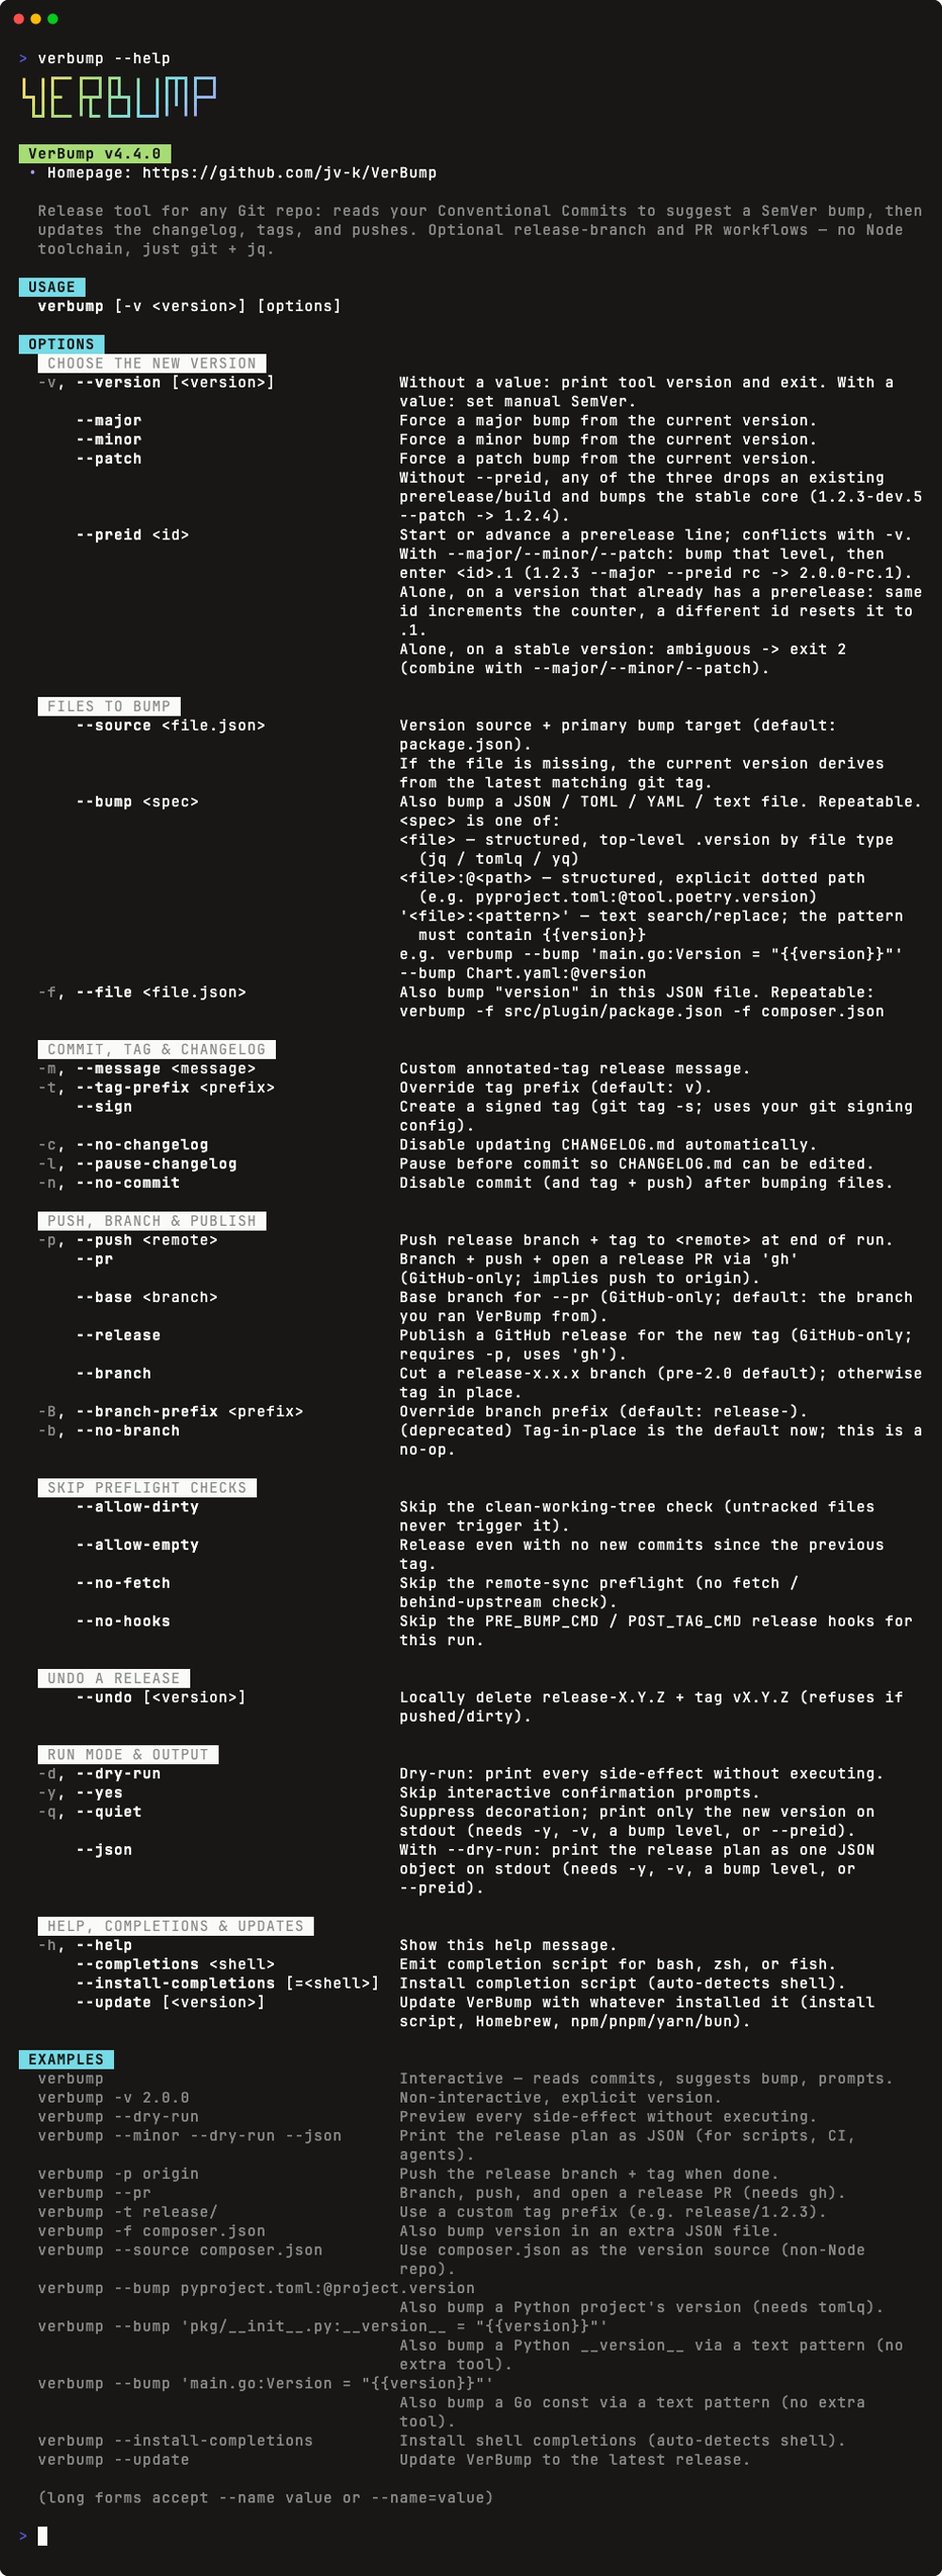
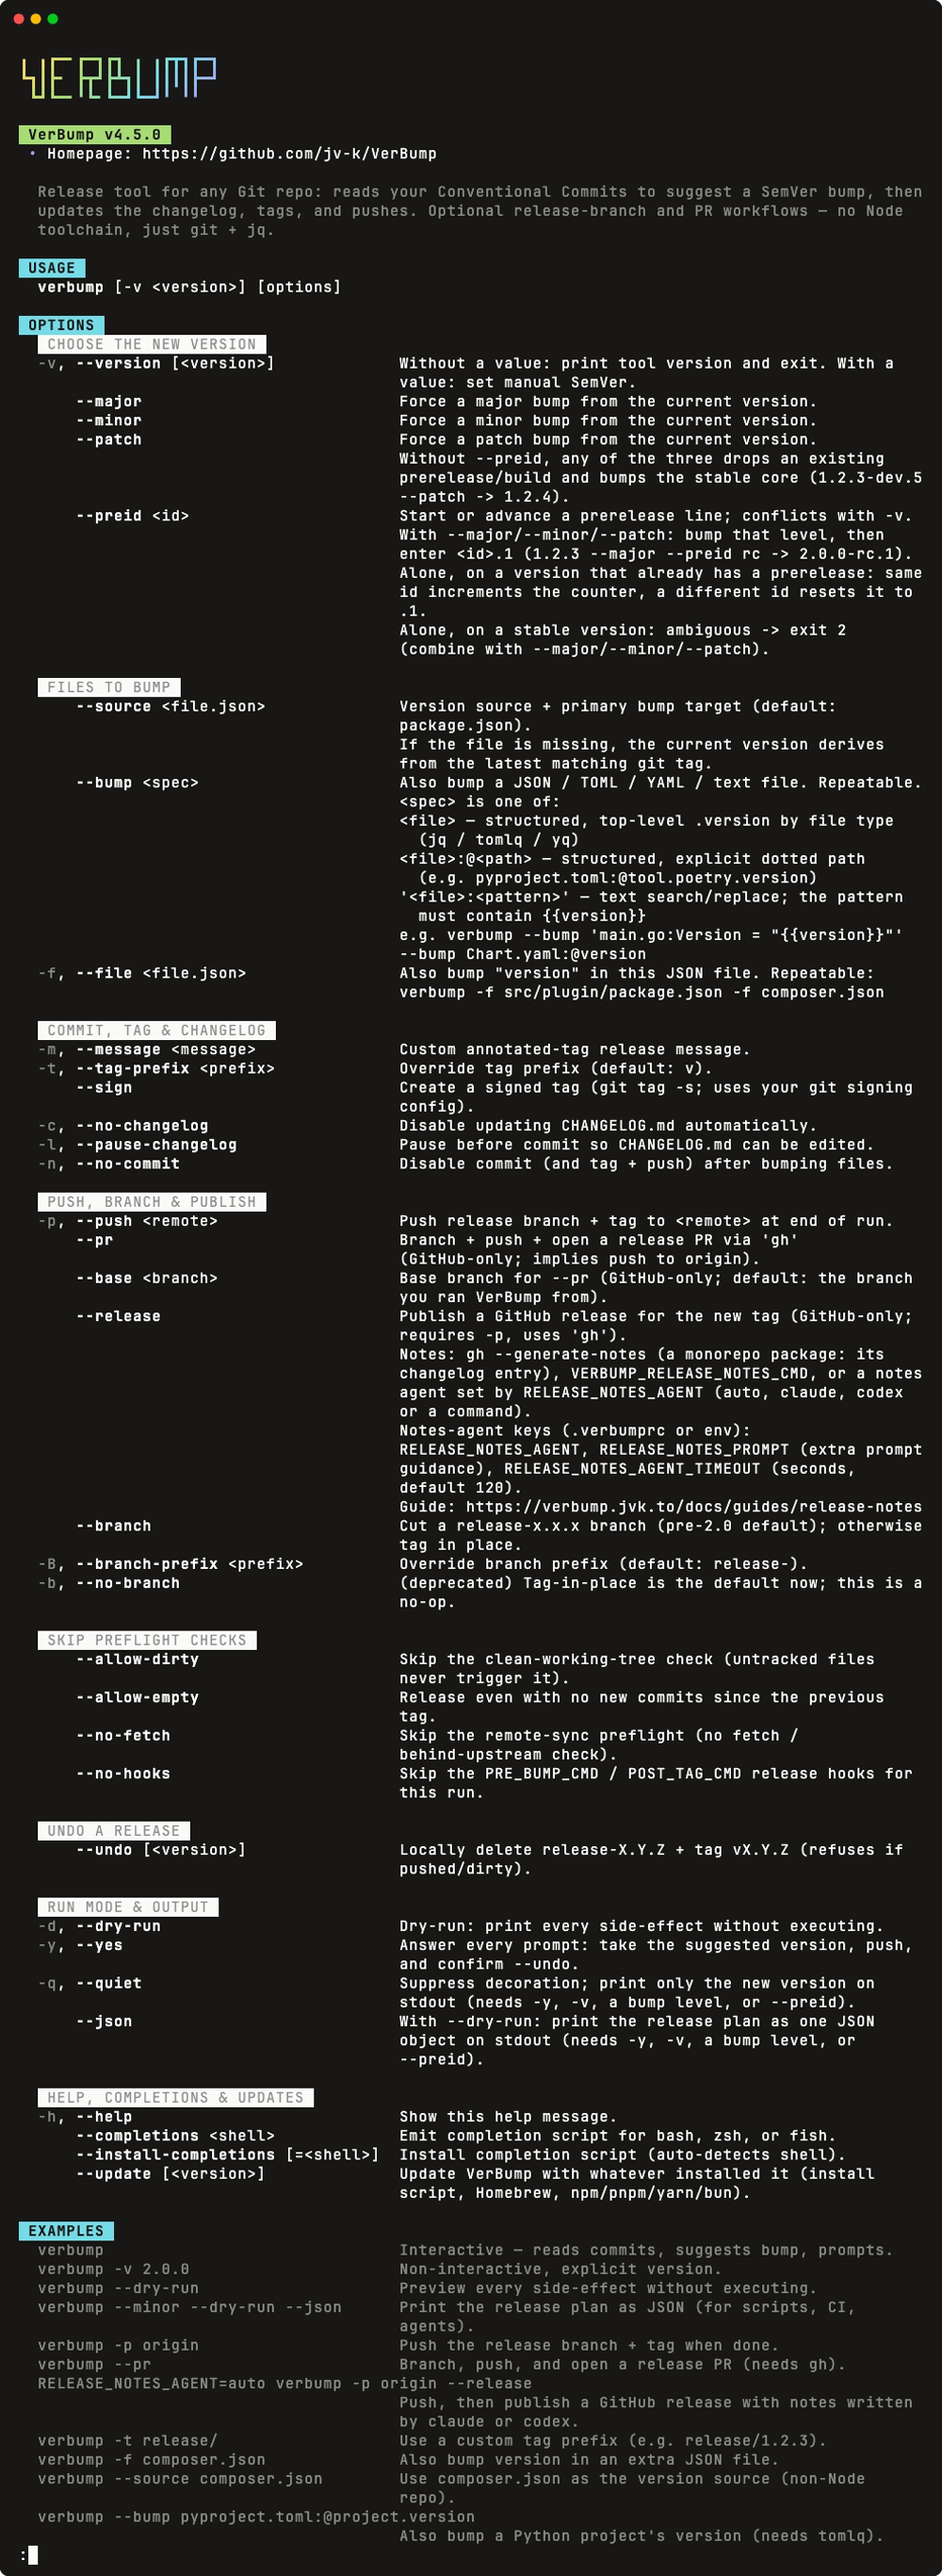
chore: updated package.json, updated CHANGELOG.md, bumped 4.4.0 -> 4.5.0

diff --git a/CHANGELOG.md b/CHANGELOG.md
@@ -1,3 +1,39 @@
+## 4.5.0 (2026-11-22)
+- chore: updated package.json, updated CHANGELOG.md, bumped 4.4.0 -> 4.5.0
+- docs(docs): name every notes-agent key and the guide in --help
+- test(tests): check auto with no agent ignores a bad notes timeout (#182)
+- test(tests): share the no-agent auto checks between two tests
+- test(tests): check auto with no agent ignores a bad notes timeout
+- feat(git-actions): preview the notes agent in --dry-run and --json (#179)
+- docs(docs): document the notes agent for --release notes (#181)
+- docs(docs): name the package notes and fix notes-agent wording
+- docs(docs): document the notes agent for --release notes
+- refactor(git-actions): tidy the notes-agent dry-run preview after review
+- feat(git-actions): preview the notes agent in --dry-run and --json
+- fix(git-actions): kill TERM-proof agent children and run caller traps (#178)
+- refactor(git-actions): tidy the notes-agent watchdog after review
+- fix(git-actions): kill TERM-proof agent children and run caller traps
+- feat(git-actions): let RELEASE_NOTES_AGENT=auto pick the notes agent (#176)
+- test(tests): check the auto no-warning case against the release output
+- refactor(git-actions): resolve the notes agent in one switch
+- feat(git-actions): let RELEASE_NOTES_AGENT=auto pick the notes agent
+- feat(git-actions): stop a hung notes agent after a timeout (#171)
+- fix(git-actions): make non-interactive runs safe for CI (#175)
+- docs(docs): add a guide for release jobs in CI
+- fix(git-actions): honour --yes at both prompts and fail on a bad push
+- feat(git-actions): add built-in claude and codex notes agents (#174)
+- fix(git-actions): keep MCP servers off for built-in notes agents
+- feat(git-actions): add built-in claude and codex notes agents
+- test(tests): cover Ctrl-C during a hung notes agent
+- feat(git-actions): stop a hung notes agent after a timeout
+- refactor(git-actions): pick --release notes through one resolver (#169)
+- feat(git-actions): let a custom notes agent write --release notes (#170)
+- refactor(git-actions): share the notes range and keep diffstat totals
+- feat(git-actions): let a custom notes agent write --release notes
+- test(tests): register the release-notes gh shim cleanup at each call site
+- refactor(git-actions): print the generated-notes preview from its flags
+- refactor(git-actions): pick --release notes through one resolver
+
 ## 4.4.0 (2026-11-04)
 - chore: updated package.json, updated CHANGELOG.md, bumped 4.3.0 -> 4.4.0
 - feat(publish): make --update drive brew and node package managers (#154)
